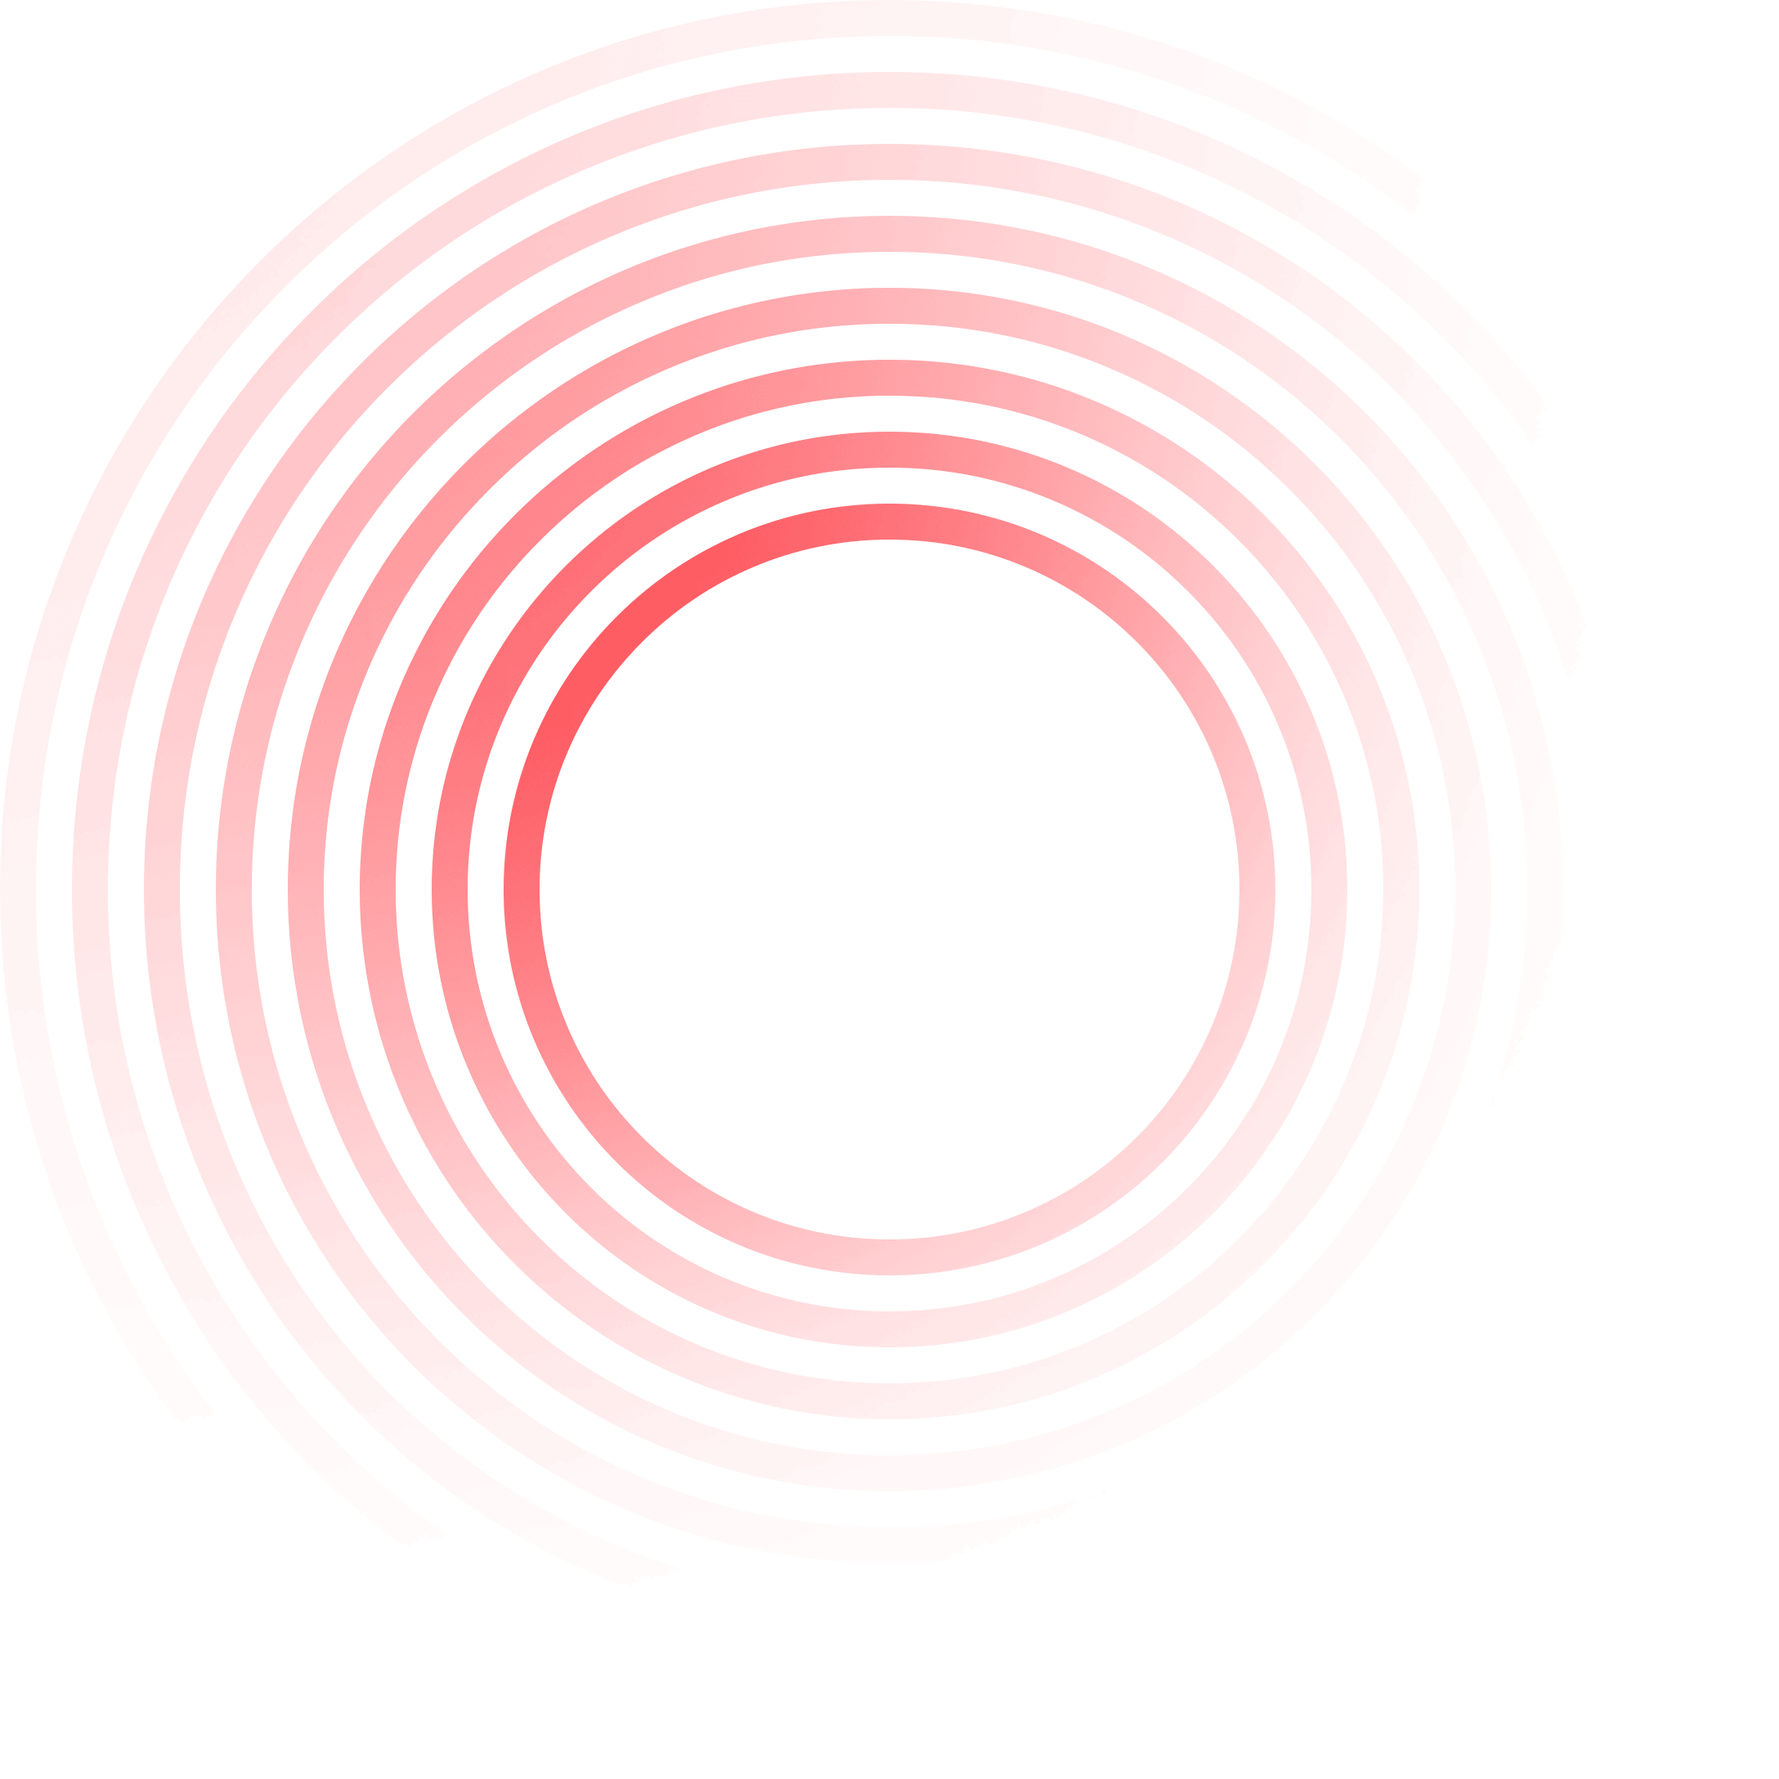
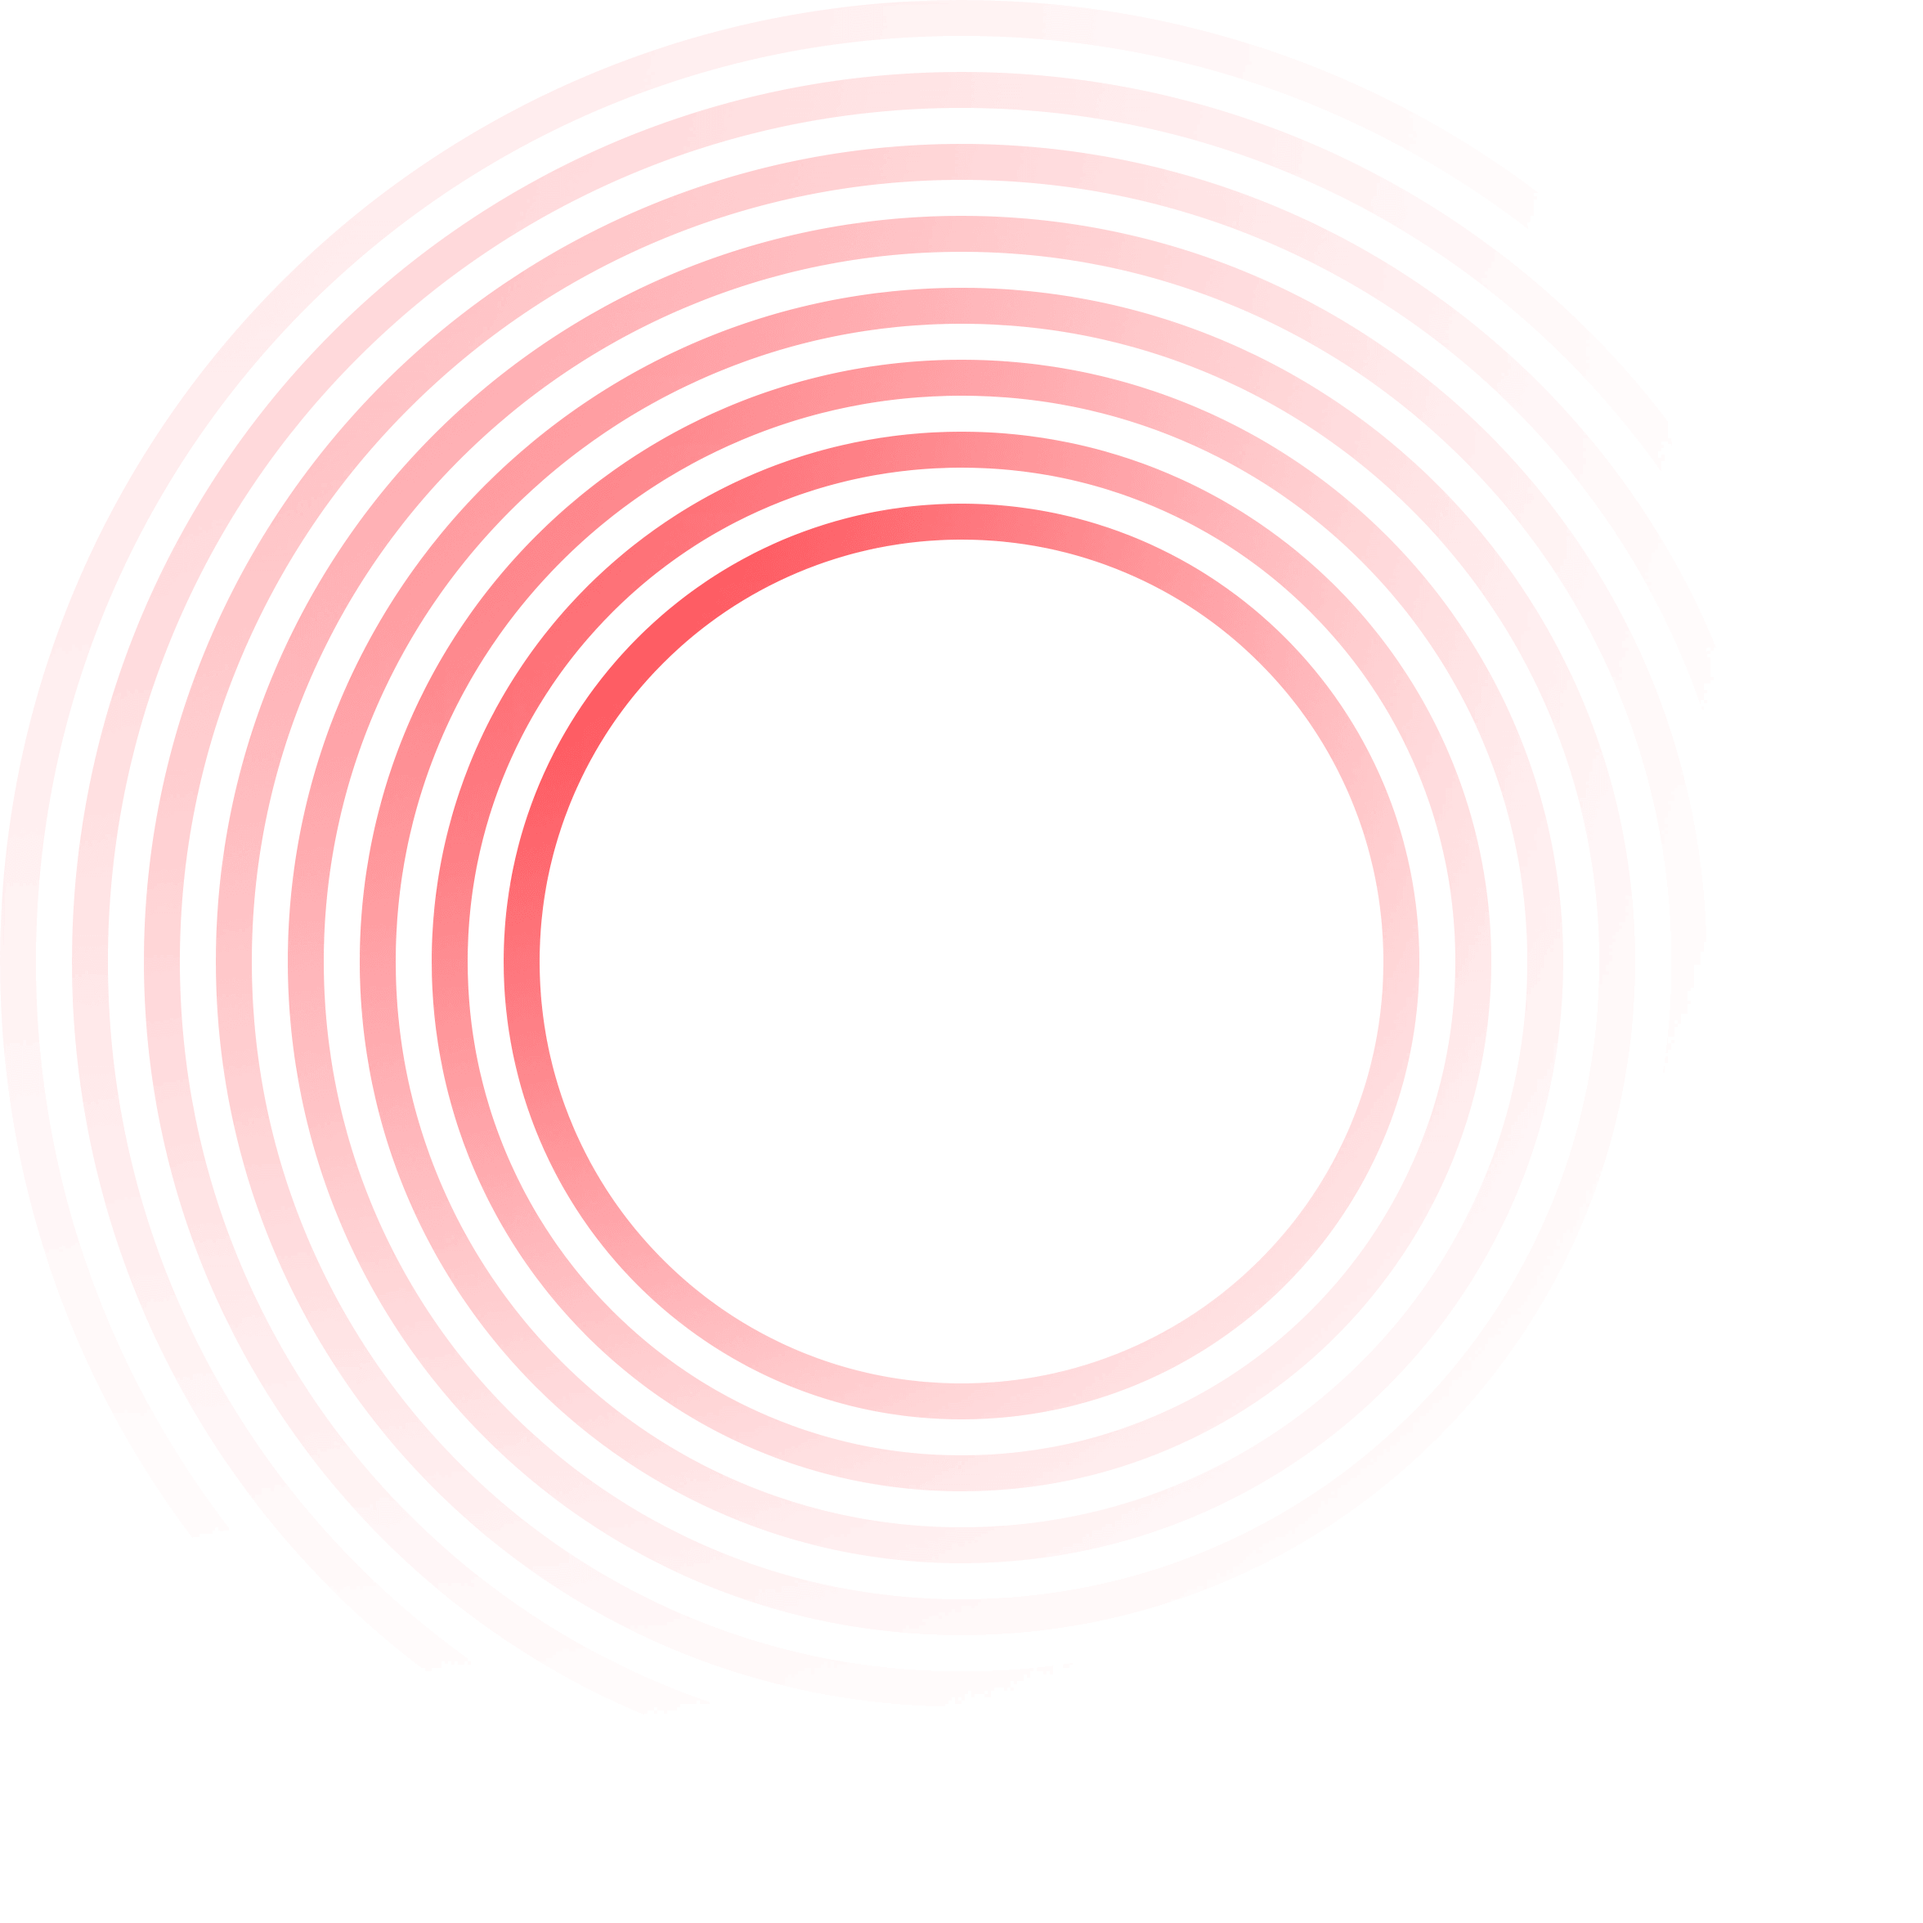
Add files via upload

Changed region(s): [[0.0312, 0.0312, 0.7812, 0.7812]]

diff --git a/assets/css/content.scss b/assets/css/content.scss
@@ -30,8 +30,8 @@ $color_gray4: #f5f5f5;
       z-index: 10;
 
       @media (max-width: 768px) {
-        height: 27.5rem;
-        width: 27.5rem;
+        height: 23.8rem;
+        width: 23.8rem;
       }
 
       &_flow {
@@ -140,10 +140,10 @@ $color_gray4: #f5f5f5;
         }
 
         @media (max-width: 768px) {
-          height: 54.4rem;
-          left: -16.7rem;
-          top: 5.4rem;
-          width: 54.4rem;
+          height: 58.8rem;
+          left: -18.9rem;
+          top: 2.7rem;
+          width: 58.8rem;
         }
 
         .bl_wave {
@@ -154,26 +154,6 @@ $color_gray4: #f5f5f5;
             @media (max-width: 768px) {
               background-image: url('../images/header/side_wave_mo.png');
             }
-          }
-        }
-      }
-
-      &_bi {
-        height: 1.7rem;
-        left: 8rem;
-        position: absolute;
-        top: 8rem;
-        width: 16.8rem;
-
-        @media (max-width: 768px) {
-          left: 3rem;
-          top: 4rem;
-        }
-
-        .bl_bi {
-          &_obj {
-            background: url('../images/header/side_bi.png') no-repeat center / contain;
-            height: 100%;
           }
         }
       }
@@ -256,6 +236,29 @@ $color_gray4: #f5f5f5;
               background-image: url('../images/header/visual_cont_mo.png');
             }
           }
+        }
+      }
+    }
+
+    .bl_bi {
+      height: 1.7rem;
+      left: 8rem;
+      position: absolute;
+      top: 8rem;
+      width: 16.8rem;
+      z-index: 30;
+
+      @media (max-width: 768px) {
+        left: 3rem;
+        top: 4rem;
+      }
+
+      &_obj {
+        background: url('../images/header/side_bi.png') no-repeat center / contain;
+        height: 100%;
+
+        @media (max-width: 768px) {
+          background-image: url('../images/header/side_bi_mo.png');
         }
       }
     }

diff --git a/assets/css/content.css b/assets/css/content.css
@@ -20,8 +20,8 @@
 }
 @media (max-width: 768px) {
   .ly_page .ly_header .bl_side {
-    height: 27.5rem;
-    width: 27.5rem;
+    height: 23.8rem;
+    width: 23.8rem;
   }
 }
 .ly_page .ly_header .bl_side_flow {
@@ -86,10 +86,10 @@
 }
 @media (max-width: 768px) {
   .ly_page .ly_header .bl_side_wave {
-    height: 54.4rem;
-    left: -16.7rem;
-    top: 5.4rem;
-    width: 54.4rem;
+    height: 58.8rem;
+    left: -18.9rem;
+    top: 2.7rem;
+    width: 58.8rem;
   }
 }
 .ly_page .ly_header .bl_side_wave .bl_wave_obj {
@@ -100,23 +100,6 @@
   .ly_page .ly_header .bl_side_wave .bl_wave_obj {
     background-image: url("../images/header/side_wave_mo.png");
   }
-}
-.ly_page .ly_header .bl_side_bi {
-  height: 1.7rem;
-  left: 8rem;
-  position: absolute;
-  top: 8rem;
-  width: 16.8rem;
-}
-@media (max-width: 768px) {
-  .ly_page .ly_header .bl_side_bi {
-    left: 3rem;
-    top: 4rem;
-  }
-}
-.ly_page .ly_header .bl_side_bi .bl_bi_obj {
-  background: url("../images/header/side_bi.png") no-repeat center/contain;
-  height: 100%;
 }
 .ly_page .ly_header .bl_visual {
   height: 100%;
@@ -188,6 +171,29 @@
 @media (max-width: 768px) {
   .ly_page .ly_header .bl_visual_cont .bl_cont_obj {
     background-image: url("../images/header/visual_cont_mo.png");
+  }
+}
+.ly_page .ly_header .bl_bi {
+  height: 1.7rem;
+  left: 8rem;
+  position: absolute;
+  top: 8rem;
+  width: 16.8rem;
+  z-index: 30;
+}
+@media (max-width: 768px) {
+  .ly_page .ly_header .bl_bi {
+    left: 3rem;
+    top: 4rem;
+  }
+}
+.ly_page .ly_header .bl_bi_obj {
+  background: url("../images/header/side_bi.png") no-repeat center/contain;
+  height: 100%;
+}
+@media (max-width: 768px) {
+  .ly_page .ly_header .bl_bi_obj {
+    background-image: url("../images/header/side_bi_mo.png");
   }
 }
 .ly_page .ly_body .bl_portfolio {

diff --git a/index.html b/index.html
@@ -65,9 +65,6 @@
                 <div class="bl_side_wave">
                   <div class="bl_wave_obj"></div>
                 </div>
-                <div class="bl_side_bi">
-                  <div class="bl_bi_obj"></div>
-                </div>
               </div>
               <div class="bl_visual">
                 <div class="bl_visual_flow">
@@ -81,6 +78,9 @@
                 <div class="bl_visual_cont">
                   <div class="bl_cont_obj"></div>
                 </div>
+              </div>
+              <div class="bl_bi">
+                <div class="bl_bi_obj"></div>
               </div>
             </header>
             <main class="ly_body">
